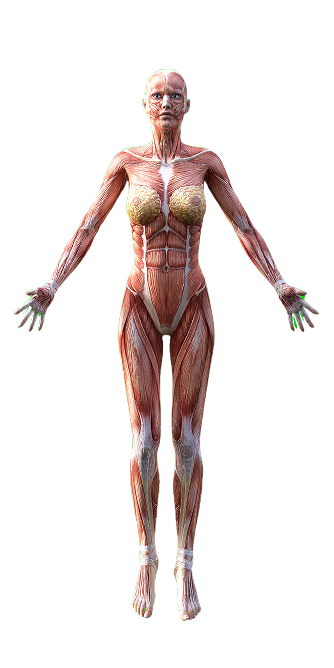
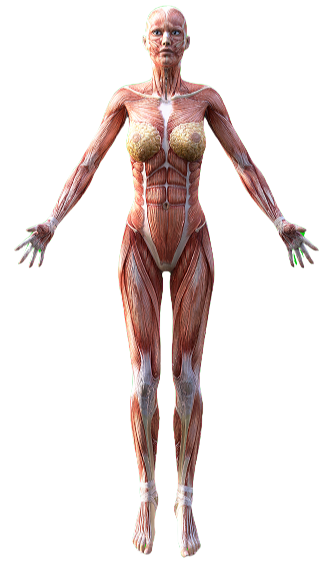
Anatomy simulator added to test details page

Changed region(s): [[0.0299, 0.0, 0.9581, 0.9912], [0.509, 0.6307, 0.6287, 0.9912]]

diff --git a/src/components/page/testDetails/anatomy/anatomy.tsx b/src/components/page/testDetails/anatomy/anatomy.tsx
@@ -1,112 +1,169 @@
 "use client";
 
+import { Button } from "@/components/ui/button";
+import { Eye, EyeOff, Mars, RefreshCcw, Venus } from "lucide-react";
 import React, { useState } from "react";
 import { Stage, Layer, Image, Circle, Text } from "react-konva";
 import useImage from "use-image";
-import {
-  Select,
-  SelectContent,
-  SelectItem,
-  SelectTrigger,
-  SelectValue,
-} from "@/components/ui/select"; // Assuming you're using ShadCN's Select component
-import { Check } from "lucide-react";
 
 const pointsData = [
-  { name: "Proximal Arm", abbreviation: "PA", x: 250, y: 130 },
-  { name: "Distal Arm", abbreviation: "DA", x: 290, y: 210 },
-  { name: "Proximal Thigh", abbreviation: "PT", x: 220, y: 300 },
-  { name: "Distal Thigh", abbreviation: "DT", x: 210, y: 350 },
-  { name: "Calf", abbreviation: "C", x: 210, y: 390 },
-  { name: "Ankle", abbreviation: "A", x: 205, y: 445 },
-  { name: "Foot", abbreviation: "F", x: 200, y: 500 },
+  {
+    name: "Proximal Arm",
+    abbreviation: "PA",
+    position: "Left",
+    x: 105,
+    y: 150,
+  },
+  {
+    name: "Proximal Arm",
+    abbreviation: "PA",
+    position: "Right",
+    x: 235,
+    y: 150,
+  },
+  { name: "Distal Arm", abbreviation: "DA", position: "Left", x: 60, y: 210 },
+  { name: "Distal Arm", abbreviation: "DA", position: "Right", x: 275, y: 210 },
+  {
+    name: "Proximal Thigh",
+    abbreviation: "PT",
+    position: "Left",
+    x: 140,
+    y: 310,
+  },
+  {
+    name: "Proximal Thigh",
+    abbreviation: "PT",
+    position: "Right",
+    x: 210,
+    y: 310,
+  },
+  {
+    name: "Distal Thigh",
+    abbreviation: "DT",
+    position: "Left",
+    x: 145,
+    y: 355,
+  },
+  {
+    name: "Distal Thigh",
+    abbreviation: "DT",
+    position: "Right",
+    x: 200,
+    y: 355,
+  },
+  { name: "Calf", abbreviation: "C", position: "Left", x: 145, y: 410 },
+  { name: "Calf", abbreviation: "C", position: "Right", x: 200, y: 410 },
+  { name: "Ankle", abbreviation: "A", position: "Left", x: 150, y: 455 },
+  { name: "Ankle", abbreviation: "A", position: "Right", x: 200, y: 455 },
+  { name: "Foot", abbreviation: "F", position: "Left", x: 150, y: 520 },
+  { name: "Foot", abbreviation: "F", position: "Right", x: 190, y: 520 },
+];
+
+const selectedPoints = [
+  {
+    name: "Proximal Arm",
+    abbreviation: "PA",
+    position: "Left",
+  },
+  { name: "Distal Arm", abbreviation: "DA", position: "Left" },
+  { name: "Distal Arm", abbreviation: "DA", position: "Right" },
 ];
 
 const ImageAnnotation = () => {
-  const [selectedPoints, setSelectedPoints] = useState<Set<string>>(new Set());
-  const [image, loading] = useImage("/images/male-back.png");
+  const [isHidden, setHidden] = useState(false);
+  const [isImageFront, setIsImageFront] = useState(false);
+  const [isGenderMale, setIsGenderMale] = useState(true);
 
-  // Toggle selection of a point
-  const handleSelection = (point: string) => {
-    const newSelectedPoints = new Set(selectedPoints);
-    if (newSelectedPoints.has(point)) {
-      newSelectedPoints.delete(point); // Deselect if already selected
-    } else {
-      newSelectedPoints.add(point); // Select the point
-    }
-    setSelectedPoints(newSelectedPoints);
-  };
-
-  const test = () => {
-    console.log("hjello");
-  };
+  const [maleBack, loading] = useImage("/images/male-back.png");
+  const [maleFront] = useImage("/images/male-front.png");
+  const [femaleFront] = useImage("/images/female-front.png");
 
   if (loading === "loading") {
     return <div className="text-center text-xl">Loading...</div>;
   }
 
   return (
-    <div className="flex flex-col items-center space-y-4">
-      <div className="w-full max-w-xs rounded-lg">
-        <Select
-          onValueChange={(value) => handleSelection(value)}
-          value={Array.from(selectedPoints).join(", ")}
+    <div className="flex flex-col md:flex-row justify-center space-y-4 sticky top-20">
+      <div className="md:grid gap-2 mt-12 h-fit">
+        <Button
+          onClick={() => setHidden(!isHidden)}
+          variant={"ghost"}
+          size={"icon"}
+          className="text-zinc-500"
         >
-          <SelectTrigger className="rounded-lg py-6">
-            <SelectValue placeholder="Select Points">
-              {Array.from(selectedPoints).length > 0 ? (
-                // Display selected point names in the trigger button
-                Array.from(selectedPoints)
-                  .map(
-                    (abbr) =>
-                      pointsData.find((point) => point.abbreviation === abbr)
-                        ?.name
-                  )
-                  .join(", ") // Join multiple names with commas
-              ) : (
-                <span>Select Points</span>
-              )}
-            </SelectValue>
-          </SelectTrigger>
-          <SelectContent className="space-y-2 p-2">
-            {pointsData.map((point) => (
-              <SelectItem key={point.abbreviation} value={point.abbreviation}>
-                <div className="w-[240px] flex justify-between gap-1">
-                  <span onClick={test}> {point.name}</span>
-                  {selectedPoints.size > 0 &&
-                    selectedPoints.has(point.abbreviation) && (
-                      <Check size={16} />
-                    )}
-                </div>
-              </SelectItem>
-            ))}
-          </SelectContent>
-        </Select>
+          {isHidden ? <EyeOff /> : <Eye />}
+        </Button>
+        <Button
+          onClick={() => {
+            setIsImageFront(!isImageFront);
+          }}
+          variant={"ghost"}
+          size={"icon"}
+          className="text-zinc-500"
+        >
+          <RefreshCcw />
+        </Button>
+        <Button
+          onClick={() => {
+            setIsGenderMale(!isGenderMale);
+          }}
+          variant={"ghost"}
+          size={"icon"}
+          className="text-zinc-500"
+        >
+          {isGenderMale ? <Mars /> : <Venus />}
+        </Button>
       </div>
-
-      <Stage width={800 * 0.45} height={1200 * 0.45}>
+      <Stage width={390} height={560} className="flex-1">
         <Layer>
-          <Image image={image} width={800 * 0.45} height={1200 * 0.45} />
+          {isGenderMale && !isImageFront && (
+            <Image image={maleBack} width={340} height={560} alt="image" />
+          )}
+          {isGenderMale && isImageFront && (
+            <Image image={maleFront} width={340} height={560} alt="image" />
+          )}
+          {!isGenderMale && isImageFront && (
+            <Image image={femaleFront} width={340} height={560} alt="image" />
+          )}
+          {!isGenderMale && !isImageFront && (
+            <Image image={maleBack} width={340} height={560} alt="image" />
+          )}
 
           {/* Render circles for selected points */}
           {pointsData.map((point) => (
-            <React.Fragment key={point.abbreviation}>
+            <React.Fragment key={`${point.abbreviation} ${point.position}`}>
               <Circle
                 x={point.x}
                 y={point.y}
-                radius={7}
+                radius={
+                  selectedPoints.find(
+                    (item) =>
+                      item.abbreviation === point.abbreviation &&
+                      item.position === point.position
+                  )
+                    ? 7
+                    : 4
+                }
                 fill={
-                  selectedPoints.has(point.abbreviation) ? "red" : "turquoise"
+                  selectedPoints.find(
+                    (item) =>
+                      item.abbreviation === point.abbreviation &&
+                      item.position === point.position
+                  )
+                    ? "red"
+                    : "turquoise"
                 }
               />
-              <Text
-                x={point.x + 20} // Slight offset for text visibility
-                y={point.y - 5} // Slight offset for text visibility
-                text={`← ${point.name} (${point.abbreviation})`}
-                fontSize={12}
-                fontFamily="Poppins"
-                fill="gray"
-              />
+              {point.position === "Right" && !isHidden && (
+                <Text
+                  x={point.x + 15} // Slight offset for text visibility
+                  y={point.y - 5} // Slight offset for text visibility
+                  text={`← ${point.name} (${point.abbreviation})`}
+                  fontSize={12}
+                  fontFamily="Poppins"
+                  fill="gray"
+                />
+              )}
             </React.Fragment>
           ))}
         </Layer>

diff --git a/src/app/(dashboardLayout)/dashboard/tests/test-details/[id]/page.tsx b/src/app/(dashboardLayout)/dashboard/tests/test-details/[id]/page.tsx
@@ -36,9 +36,9 @@ const TestDetailsPage = async ({ params }: { params: PageParams }) => {
         </CardHeader>
         <CardContent className="grid gap-10">
           <TestInfo test={test} />
-          <section className="grid grid-cols-1 lg:grid-cols-3 gap-8">
+          <section className="flex flex-col-reverse lg:flex-row gap-8">
             {/* left section */}
-            <section className="col-span-2 grid gap-8">
+            <section className="w-full lg:w-2/3 grid gap-8">
               <GeneralTestDetails test={test} />
 
               {/* Document */}
@@ -59,10 +59,12 @@ const TestDetailsPage = async ({ params }: { params: PageParams }) => {
               {/* Note */}
               <NoteSection />
             </section>
-            <section></section>
+            {/* Anatomy Image section */}
+            <section>
+              <AnatomyWrapper />
+            </section>
           </section>
         </CardContent>
-        <AnatomyWrapper />
       </Card>
     </section>
   );
